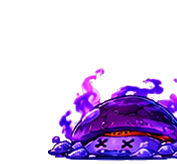
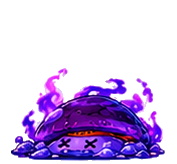
fix(arte): ancora da morte pelo chao do cogumelo (o sombrio tremia de lado)
O jogador notou o sombrio tremendo de um lado pro outro. A causa: cada quadro
era centralizado pela COLUNA MAIS CHEIA do desenho ? e as chamas/fumaca balancam
em cima, entao o corpo escorregava horizontalmente entre os quadros.

Agora a ancora e a MEDIANA horizontal da faixa de baixo (o chao do cogumelo,
onde os respingos sao minoria). Medido no sombrio: o centro da base ficou em
88,5px em 12 dos 14 quadros (antes variava muito mais; so os 2 quadros de nuvem
de fumaca ficam ~4px fora). Cristal: espalhamento de 1px; rei-espinhos: 4px.

diff --git a/scripts/fatiar-morte-sheet.js b/scripts/fatiar-morte-sheet.js
@@ -278,10 +278,13 @@ if (!FOLHA) {
         segs.sort((a, b) => a.x0 - b.x0);
 
         // ---- caixa de cada quadro (dentro da fatia) ----
+        // A âncora horizontal é o CENTRO DA BASE (a faixa de baixo, no chão):
+        // as chamas e os respingos balançam em cima e, se a âncora fosse a
+        // coluna mais cheia, o corpo escorregava de um lado pro outro entre os
+        // quadros. O chão não se mexe em nenhum quadro.
         const quadrosInfo = segs.map((s) => {
-            let x0 = s.x1, x1 = s.x0, y0 = H, y1 = -1, colunaCheia = s.x0, melhorCol = -1;
+            let x0 = s.x1, x1 = s.x0, y0 = H, y1 = -1;
             for (let x = s.x0; x <= s.x1; x++) {
-                if (proj[x] > melhorCol) { melhorCol = proj[x]; colunaCheia = x; }
                 for (let y = 0; y < H; y++) {
                     if (!solido(x, y)) continue;
                     if (x < x0) x0 = x;
@@ -290,8 +293,20 @@ if (!FOLHA) {
                     if (y > y1) y1 = y;
                 }
             }
-            return { x0, x1, y0, y1, cx: colunaCheia + 0.5 };
-        }).filter(q => q.y1 >= 0);
+            if (y1 < 0) return null;
+            const alturaBase = Math.max(4, Math.round((y1 - y0 + 1) * 0.22));
+            const xs = [];
+            for (let x = x0; x <= x1; x++) {
+                for (let y = Math.max(y0, y1 - alturaBase + 1); y <= y1; y++) {
+                    if (solido(x, y)) { xs.push(x + 0.5); break; }
+                }
+            }
+            // MEDIANA (não média): os respingos/fumaça que saem para um lado são
+            // minoria e não puxam a âncora
+            xs.sort((a, b) => a - b);
+            const cx = xs.length ? xs[xs.length >> 1] : (x0 + x1) / 2;
+            return { x0, x1, y0, y1, cx };
+        }).filter(Boolean);
 
         // ---- tela fixa: maior largura/altura, chão na base ----
         const largura = Math.max(...quadrosInfo.map(q => q.x1 - q.x0 + 1)) + 6;
